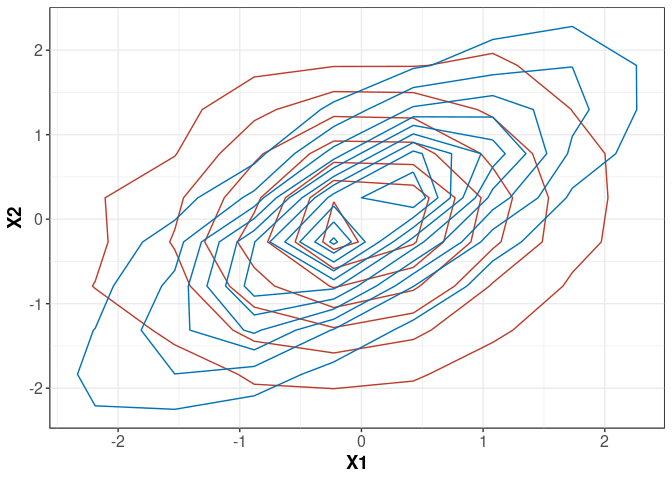
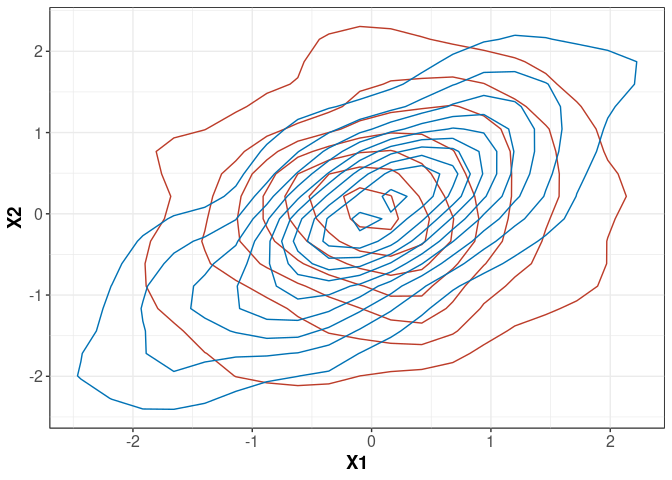
Update README

diff --git a/README.md b/README.md
@@ -22,7 +22,9 @@ clustering multivariate extreme events based on their tail dependence
 structures using the conditional extremes model of Heffernan and Tawn
 (Heffernan & Tawn, 2004). For more details of the methodology and usage
 of the package, please see its vignette by running `vignette("CeCl")`
-after installation.
+after installation. This package is in the early stages of development;
+please report any issues or suggestions on the [GitHub issues
+page](https:/github.com/potoole7/CeCl/issues).
 
 ## Installation
 
@@ -68,7 +70,7 @@ library(dplyr)
 library(ggplot2)
 
 # function to generate multivariate t data with specified correlation
-gen_t <- \(cor_t, n_vars = 2, n = 10000, n_locs = 5) {
+gen_t <- \(cor_t, n_vars = 2, n = 1000, n_locs = 5) {
   # generate data
   cop_t <- tCopula(param = cor_t, dim = n_vars, df = 3, dispstr = "ex")
   u <- rCopula(n, cop_t)
@@ -82,7 +84,7 @@ data <- rbind(
   gen_t(cor_t = 0.8)  # last 5 locations have high correlation
 )
 # Add dummy location names
-data$name <- rep(paste0("loc_", 1:10), each = 2000)
+data$name <- rep(paste0("loc_", 1:10), each = 200)
 
 # visualise
 data |> 
